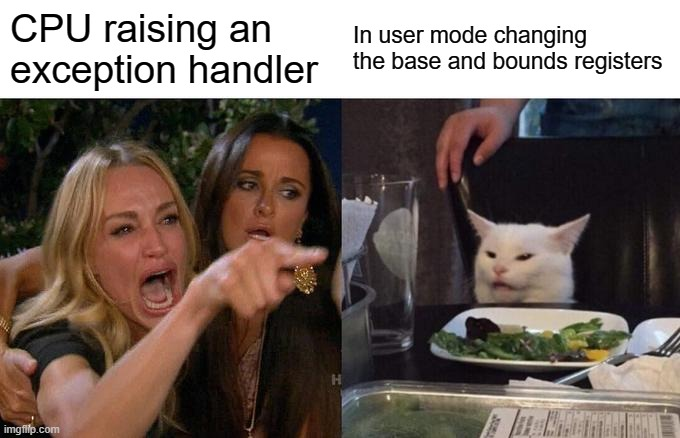
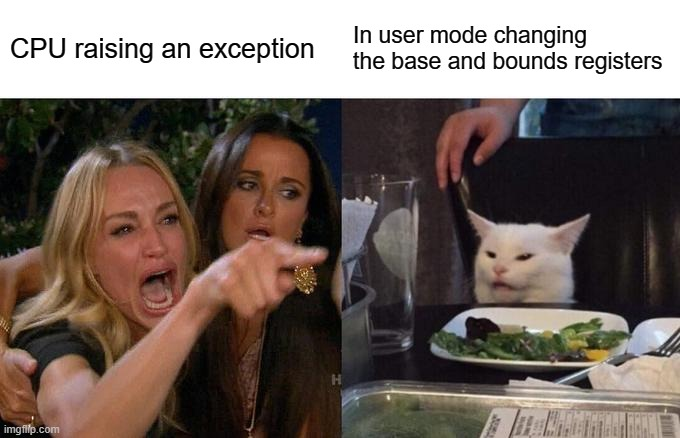
meme fixed

Changed region(s): [[0.0, 0.0297, 0.4632, 0.2078]]

diff --git a/_posts/2023-02-23-BlakeGriswell-address-space-meme.md b/_posts/2023-02-23-BlakeGriswell-address-space-meme.md
@@ -1,7 +1,7 @@
 ---
-title:  
-author:
-image: 
-chapter: 
+title:  unahppy cpu
+author: shelly
+image: cpu_exception.jpg
+chapter: 15
 ---
-Update the above data, include an image of your original meme, and replace this text with your meme explanation.
+In user mode you are unable to change the base and bounds registers unless you are in kernal mode. The CPU will raise an exception and most likey terminate the process.
